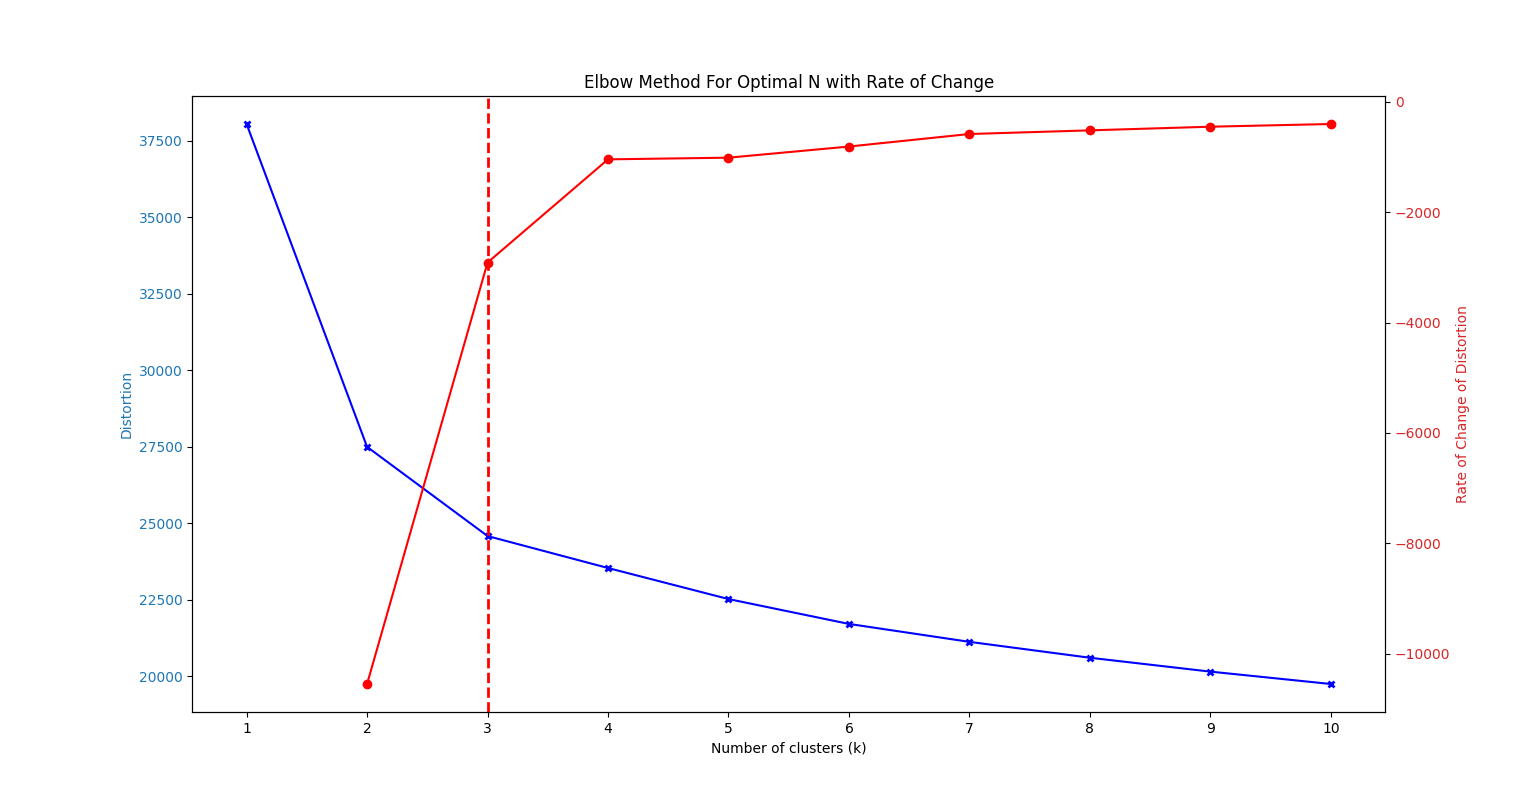
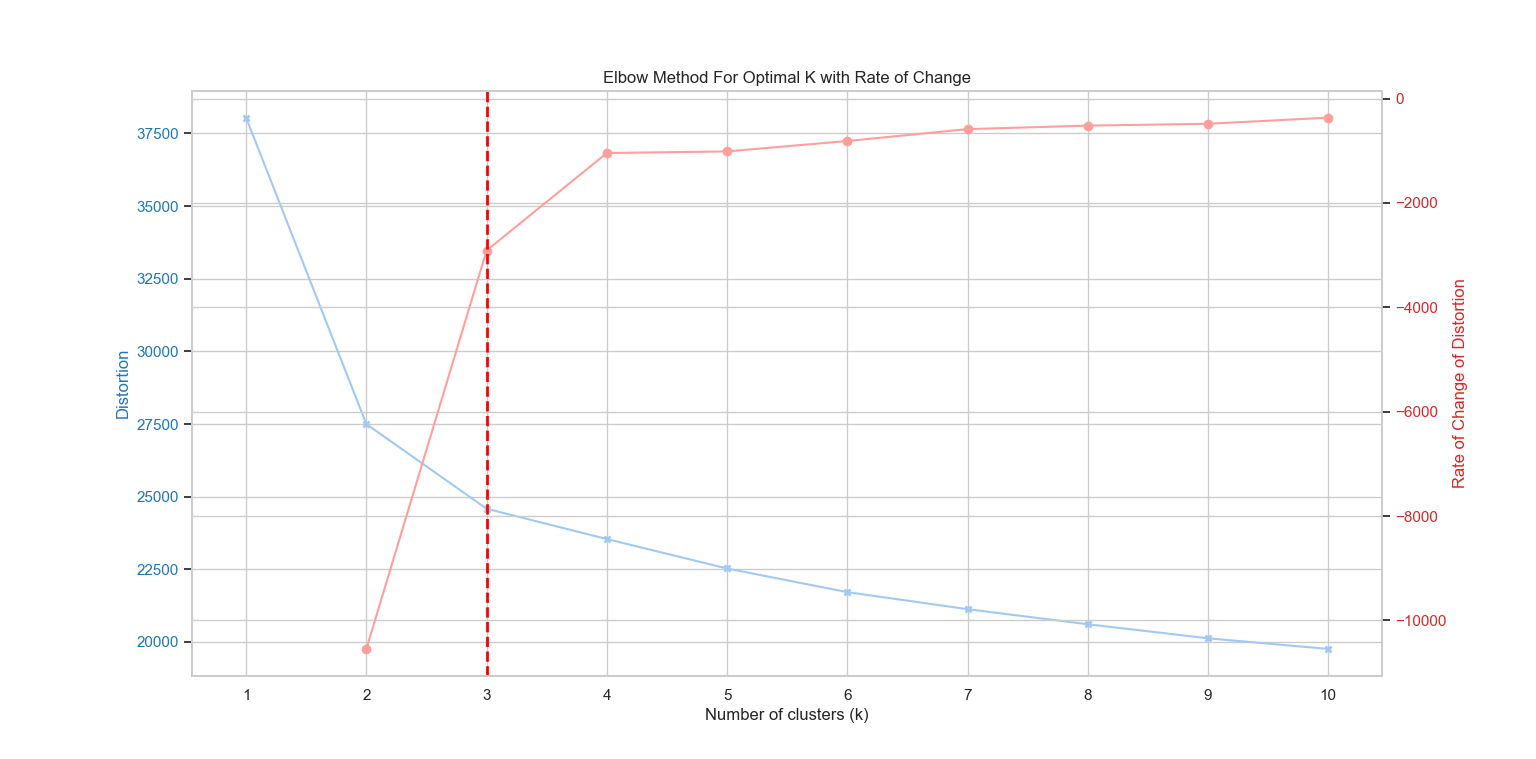
Graphing

diff --git a/main.py b/main.py
@@ -4,7 +4,7 @@ from sklearn.decomposition import PCA
 import matplotlib.pyplot as plt
 import seaborn as sns
 from sklearn.cluster import KMeans
-import time
+import random
 import numpy as np
 from sklearn.decomposition import PCA
 import matplotlib.pyplot as plt
@@ -19,10 +19,12 @@ import pandas as pd
 import warnings
 from sklearn.impute import KNNImputer
 from sklearn.preprocessing import StandardScaler
-from imblearn.over_sampling import SMOTE
 from sklearn.model_selection import train_test_split
 from sklearn.metrics import accuracy_score, recall_score, precision_score, f1_score, classification_report
 import xgboost as xgb
+from imblearn.over_sampling import SMOTE
+from imblearn.under_sampling import RandomUnderSampler
+from imblearn.pipeline import Pipeline
 
 #####################################
 ################ MAIN ###############
@@ -43,21 +45,21 @@ def main():
     rename(df)
 
     # Optional: Uncomment to view an overview of the customer data
-    data_overview(df)
+    # data_overview(df)
 
     # Transform the user data for clustering (Data prep)
     # 'df_Transform': Data transformed for clustering (campaign data dropped and standardized)
     # 'df_New': Data transformed without dropping campaign data and without standardization
     # 'df_Predict': Data transformed for prediction (includes campaign data and standardized)
     df_Transform = transform_customer_data(df, dropCampaign=True, standardizeIt=True, printIt=False)
-    df_New = transform_customer_data(df, dropCampaign=False, standardizeIt=False, printIt=False)
+    # df_New = transform_customer_data(df, dropCampaign=False, standardizeIt=False, printIt=False)
     df_Predict = transform_customer_data(df, dropCampaign=False, standardizeIt=True, printIt=False)
 
     # Perform customer segmentation using clustering
-    labels = customer_segmentation(df_Transform=df_Transform, graphIt=True)
+    labels = customer_segmentation(df_Transform=df_Transform, graphIt=False)
 
     # Profile customers based on clustering results
-    customer_profile(df=df_New, df_Transform=df_Transform, labels=labels)
+    # customer_profile(df=df_New, df_Transform=df_Transform, labels=labels)
 
     # Predict customer responses using machine learning models
     customer_prediction(df=df_Predict, labels=labels)
@@ -315,11 +317,11 @@ def transform_customer_data(df_original, dropCampaign=False, standardizeIt=False
 
     # Convert 'Dt_Customer' to datetime and compute membership length
     df['Dt_Customer'] = pd.to_datetime(df['Dt_Customer'], format='%d-%m-%Y')
-    max_new_date = (df['Dt_Customer'] + pd.to_timedelta(df['Recency'], unit='D')).max()
-    df["Membership Length"] = (max_new_date - df['Dt_Customer']).dt.days
+    min_new_date = (df['Dt_Customer'] + pd.to_timedelta(df['Recency'], unit='D')).max()
+    df["Membership Length"] = (min_new_date - df['Dt_Customer']).dt.days
 
     # Add a new 'Age' column
-    df["Age"] = max_new_date.year - df["Year_Birth"]
+    df["Age"] = min_new_date.year - df["Year_Birth"]
 
     # One-hot encoding for 'Education' and 'Marital_Status'
     df = pd.concat([df, pd.get_dummies(df['Education'], prefix='Edu', prefix_sep=' ')], axis=1)
@@ -371,7 +373,6 @@ def transform_customer_data(df_original, dropCampaign=False, standardizeIt=False
         df[columns_to_standardize] = scaler.fit_transform(df[columns_to_standardize])
 
     return df
-
 
 def remove_duplicates(input_df):
     """
@@ -498,7 +499,7 @@ def plot_elbow_graph(K, distortions, knee_point):
     # Highlighting and annotating the elbow point
     plt.axvline(x=knee_point, color='red', linestyle='--', linewidth=2)
     plt.text(knee_point, max(distortions), f'Optimal N: {knee_point}', horizontalalignment='right', color='red', fontsize=12)
-    plt.title('Elbow Method For Optimal N with Rate of Change')
+    plt.title('Elbow Method For Optimal K with Rate of Change')
     plt.show()
 
 def calculate_pca_variance(df):
@@ -566,7 +567,6 @@ def customer_profile(df, df_Transform, labels):
     The function generates visualizations for income, spending, age, education,
     marital status, parental status, and response to campaigns for different clusters.
     """
-
     # Visualize clusters in 3D space
     cluster_plot(df_Transform, labels)
 
@@ -577,6 +577,9 @@ def customer_profile(df, df_Transform, labels):
 
     # Compare age distribution across clusters
     box_whisker_plot(df, labels, 'Age')
+
+    # Membership Length
+    box_whisker_plot(df, labels, 'Membership Length')
 
     # Compare education levels across clusters
     education_categories = ['Edu 2n Cycle', 'Edu Basic', 'Edu Graduation', 'Edu Master', 'Edu PhD']
@@ -867,21 +870,19 @@ def customer_prediction_per_label(df, labels):
     # Perform prediction and evaluate model for each label
     for label in unique_labels:
         df_subset = df[labels_series == label]
-        y_test, predictions = customer_prediction_XGBOOST(df_subset, target_column='Latest Campaign', useSmote=True)
+        y_test, predictions = customer_prediction_XGBOOST(df_subset, target_column='Latest Campaign')
         metrics = evaluate_model(y_test, predictions)
         metrics_per_label[label] = metrics
 
     return metrics_per_label
 
-def customer_prediction_XGBOOST(df, target_column='Latest Campaign', useSmote=False):
+def customer_prediction_XGBOOST(df, target_column='Latest Campaign'):
     """
     Performs customer prediction using an XGBoost classifier. 
-    It allows the option to use SMOTE (Synthetic Minority Over-sampling Technique) for balancing the dataset.
 
     Args:
     df (DataFrame): The DataFrame containing the dataset for prediction.
     target_column (str, optional): The name of the target column. Defaults to 'Latest Campaign'.
-    useSmote (bool, optional): Flag to indicate whether to use SMOTE for balancing the dataset. Defaults to False.
 
     Returns:
     tuple: A tuple containing the actual values of the test set (y_test) and the predictions made by the model.
@@ -891,33 +892,14 @@ def customer_prediction_XGBOOST(df, target_column='Latest Campaign', useSmote=Fa
     X = df.drop(target_column, axis=1)
     y = df[target_column]
 
-    if useSmote:
-        # Applying SMOTE for balancing the dataset
-        smote = SMOTE(random_state=42)
-        X, y = smote.fit_resample(X, y)
-    else:
-        # Combining features and target for undersampling process
-        data = pd.concat([X, y], axis=1)
+    # Define SMOTE for over-sampling
+    smote = SMOTE(random_state=1221)
 
-        # Separating the dataset into majority and minority classes
-        majority_class = data[data[target_column] == 0]
-        minority_class = data[data[target_column] == 1]
-
-        # Performing undersampling on the majority class
-        majority_class_undersampled = resample(majority_class, 
-                                               replace=False, 
-                                               n_samples=len(minority_class), 
-                                               random_state=42)
-
-        # Combining the undersampled majority class with the minority class
-        data = pd.concat([majority_class_undersampled, minority_class])
-
-        # Re-separating features and target
-        X = data.drop(target_column, axis=1)
-        y = data[target_column]
+    # Apply the pipeline to your features (X) and target (y)
+    X, y = smote.fit_resample(X, y)
 
     # Splitting the dataset into training and testing sets
-    X_train, X_test, y_train, y_test = train_test_split(X, y, test_size=0.3, random_state=1221)
+    X_train, X_test, y_train, y_test = train_test_split(X, y, test_size=0.2, random_state=1221)
 
     # Initializing the XGBoost classifier
     model = xgb.XGBClassifier(use_label_encoder=False, eval_metric='logloss')
@@ -929,7 +911,6 @@ def customer_prediction_XGBOOST(df, target_column='Latest Campaign', useSmote=Fa
     predictions = model.predict(X_test)
 
     return y_test, predictions
-
 
 def evaluate_model(y_true, y_pred):
     """
@@ -977,14 +958,16 @@ def plot_evaluation_metrics(metrics_without_labels, metrics_with_labels, metrics
     metric_names = list(metrics_without_labels.keys())[:-1]  # Exclude the classification report
     values_without_labels = [metrics_without_labels[name] for name in metric_names]
     values_with_labels = [metrics_with_labels[name] for name in metric_names]
+
+    # Sort values_per_label by cluster number
     values_per_label = {cluster: [metrics[name] for name in metric_names] 
-                        for cluster, metrics in metrics_per_label.items()}
+                        for cluster, metrics in sorted(metrics_per_label.items())}
 
     # Setting up the bar plot
     n_groups = len(metric_names)
     bar_width = 0.15
     fig, ax = plt.subplots(figsize=(12, 8))
-    colors = ['purple', 'yellow', 'green']  # Custom colors for clusters
+    colors = ['purple', 'green', 'yellow']  # Custom colors for clusters
 
     # Helper function to plot bars
     def plot_bars(values, positions, label, color=None):
@@ -1021,6 +1004,8 @@ def plot_evaluation_metrics(metrics_without_labels, metrics_with_labels, metrics
 #######################################
 
 if __name__ == "__main__":
+    random.seed(1221)
+
     # Filter out FutureWarnings
     warnings.simplefilter(action='ignore', category=FutureWarning)
 
